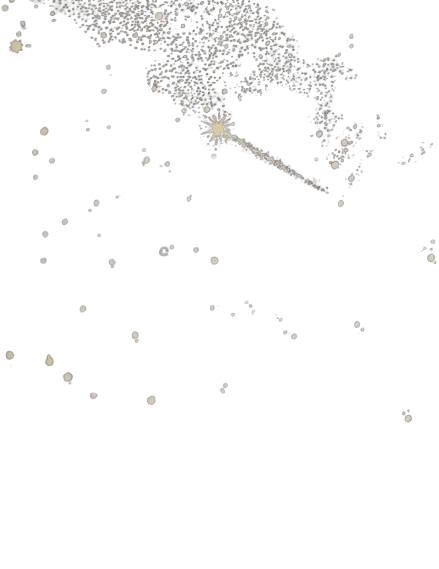
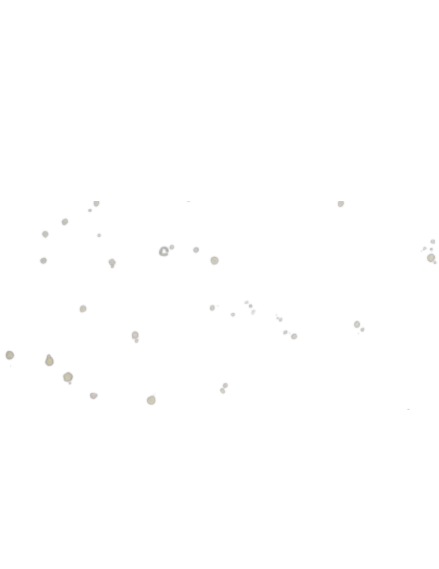
half-finished

diff --git a/src/App.tsx b/src/App.tsx
@@ -3,7 +3,6 @@ import { motion } from 'framer-motion';
 import { useInView } from 'react-intersection-observer';
 import BannerImg from './assets/banner.jpg';
 import PosterImg from './assets/poster.jpg';
-import StarsImg from './assets/stars.png';
 import WelcomePage from './page/WelcomePage';
 import InformaitonPage from './page/InformationPage';
 import SongPage from './page/SongPage';
@@ -44,7 +43,7 @@ function App() {
       ([entry]) => {
         setIsWelcomeVisible(entry.isIntersecting);
       },
-      { threshold: 0.2 } // Reduced the threshold for better detection
+      { threshold: 0.5 } // Reduced the threshold for better detection
     );
 
     if (welcomeRef.current) {
@@ -75,16 +74,15 @@ function App() {
           alt='poster'
         />
       </motion.div>
-      <div className='h-[700px]' ref={welcomeRef}>
-        {isWelcomeVisible && 
-          <motion.div
-            initial={{opacity: 0}}
-            animate={{ opacity: 1}}
-            transition={{duration: 1}}
-          >
-            <WelcomePage />
-          </motion.div>
-        }
+      <div className='h-[600px]' ref={welcomeRef}>
+        <motion.div
+          initial={{opacity: 0}}
+          animate={{ opacity: isWelcomeVisible ? 1 : 0 }}
+          exit={{ opacity: 0 }}
+          transition={{duration: 1}}
+        >
+          <WelcomePage />
+        </motion.div>
       </div>
       <div ref={bannerRefView} className='m-0'>
         <motion.img
